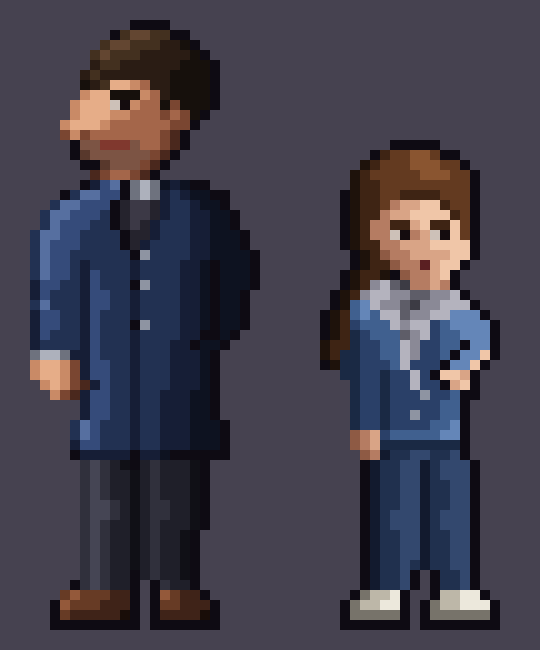
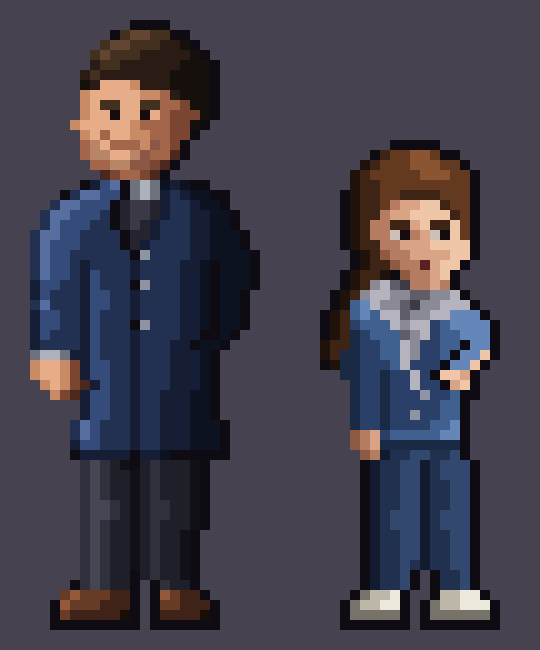
Musterfigur Marko: Gesicht neu (ruhige Hauttöne, feine Brauen, kleine Nase, weicher Bartschatten)
Claude-Session: https://claude.ai/code/session_018SiG6GXfYC6gzdWKXnarfp

Changed region(s): [[0.0889, 0.1231, 0.4148, 0.2769]]

diff --git a/design/tools/hd_figuren_beispiel.js b/design/tools/hd_figuren_beispiel.js
@@ -397,7 +397,7 @@ function blur(src, w, h, r, passes) { let a = Float32Array.from(src), b = new Fl
 function bil(a, w, h, fx, fy, k) { const x = clamp(fx, 0, w - 1.001), y = clamp(fy, 0, h - 1.001), x0 = Math.floor(x), y0 = Math.floor(y), u = x - x0, v = y - y0, i00 = (y0 * w + x0) * 3 + k, i10 = i00 + 3, i01 = i00 + w * 3, i11 = i01 + 3;
   return (a[i00] * (1 - u) + a[i10] * u) * (1 - v) + (a[i01] * (1 - u) + a[i11] * u) * v; }
 // ================================================================ Figuren von Hand (Legende: Zeichen → Farbe); Marko sieht nach links, Mala nach rechts
-const FPAL = {"K": "#0e0b13", "h": "#16100c", "H": "#2a1c14", "i": "#43301f", "j": "#634631", "q": "#4a281d", "s": "#7a4631", "S": "#a4664a", "t": "#c98a66", "T": "#e6ad88", "b": "#7c5444", "d": "#58382c", "e": "#140c0e", "w": "#cdc1b8", "m": "#80382e", "c": "#0d1220", "C": "#161e36", "D": "#223152", "E": "#354b7a", "F": "#566fa0", "v": "#25232d", "V": "#3c3946", "g": "#6e727e", "G": "#adb1bc", "p": "#101016", "P": "#1f1f29", "Q": "#30303c", "R": "#454554", "o": "#190d08", "O": "#3f2318", "u": "#673b25", "U": "#94593a", "y": "#8e94a2", "a": "#1e120b", "A": "#3e2414", "B": "#633a20", "I": "#8a5530", "f": "#8e5a44", "k": "#b57c62", "l": "#d9a486", "n": "#f0c6a8", "J": "#1a2944", "L": "#2a4068", "M": "#40608f", "N": "#6486b8", "x": "#3c3b44", "X": "#5e5d68", "Z": "#8a8996", "z": "#b4b3be", "r": "#121a2e", "W": "#20304e", "Y": "#33486e", "1": "#77736a", "2": "#bdb7a8", "3": "#ece8dc", "4": "#5a1f22"};
+const FPAL = {"K": "#0e0b13", "h": "#16100c", "H": "#2a1c14", "i": "#43301f", "j": "#634631", "q": "#4a281d", "s": "#7a4631", "S": "#a4664a", "t": "#c98a66", "T": "#e6ad88", "b": "#7c5444", "d": "#58382c", "e": "#140c0e", "w": "#cdc1b8", "m": "#80382e", "c": "#0d1220", "C": "#161e36", "D": "#223152", "E": "#354b7a", "F": "#566fa0", "v": "#25232d", "V": "#3c3946", "g": "#6e727e", "G": "#adb1bc", "p": "#101016", "P": "#1f1f29", "Q": "#30303c", "R": "#454554", "o": "#190d08", "O": "#3f2318", "u": "#673b25", "U": "#94593a", "y": "#8e94a2", "a": "#1e120b", "A": "#3e2414", "B": "#633a20", "I": "#8a5530", "f": "#8e5a44", "k": "#b57c62", "l": "#d9a486", "n": "#f0c6a8", "J": "#1a2944", "L": "#2a4068", "M": "#40608f", "N": "#6486b8", "x": "#3c3b44", "X": "#5e5d68", "Z": "#8a8996", "z": "#b4b3be", "r": "#121a2e", "W": "#20304e", "Y": "#33486e", "1": "#77736a", "2": "#bdb7a8", "3": "#ece8dc", "4": "#5a1f22", "5": "#b88566", "6": "#8a5844"};
 const SPR_MARKO = [
 "...........KKKK...........",
 ".........KKjjiiKK.........",
@@ -405,16 +405,16 @@ const SPR_MARKO = [
 ".......KjiiiHHHHHhK.......",
 ".......KiiHHHHHHhhhK......",
 "......KiHHHHHHHhhhhK......",
-"......KHiTTtSHHhhhhK......",
-"......KTThhhtSHhhhhK......",
-".....KTTTwetSShshhhK......",
-".....KTTTttSSSsSshK.......",
-"....KTTTtSSSSSSssK........",
-"....KtsSSSSSSSsqK.........",
-".....KbbmmmbSSsqK.........",
-".....KdbbbbbbsqK..........",
-"......KKdbbbsqK...........",
-".......KsSSsqK............",
+"......KHTTTtHHHhhhhK......",
+"......KTTTTTttSHhhhK......",
+"......KTiiTTiiSSshhK......",
+"......KTTeTTeTSssshK......",
+".....KTTTTTtSSSsshK.......",
+"......KTSTTttSSssK........",
+"......K5TSSSt6SsK.........",
+"......K55TT56SSqK.........",
+".......KK5566sqK..........",
+"........KsSSsqK...........",
 "......KKEFKgGgKCcKK.......",
 "....KKFFEEKgGgKDCccKK.....",
 "...KFFEEEKvVVvKDDCccK.....",
@@ -513,7 +513,7 @@ const SPR_MALA = [
 const hexc = h => [parseInt(h.slice(1, 3), 16) / 255, parseInt(h.slice(3, 5), 16) / 255, parseInt(h.slice(5, 7), 16) / 255];
 // Kontur nur, wo nötig: außen die dunkelste Farbe der Fläche daneben statt Schwarz, unten und zur Schattenseite Schwarz
 function selout(rows) { const h = rows.length, w = rows[0].length, g = (x, y) => (x < 0 || y < 0 || x >= w || y >= h) ? '.' : rows[y][x];
-  const dark = { E: 'C', F: 'D', D: 'C', C: 'c', G: 'g', T: 't', t: 's', S: 's', s: 'q', n: 'l', l: 'k', k: 'f', L: 'J', M: 'L', N: 'M', z: 'Z', Z: 'X', X: 'x', H: 'h', i: 'H', j: 'i', A: 'a', B: 'A', I: 'B', Q: 'P', P: 'p', R: 'Q', W: 'r', Y: 'W', '2': '1', '3': '2', O: 'o', u: 'O', U: 'u', V: 'v', J: 'J' };
+  const dark = { E: 'C', F: 'D', D: 'C', C: 'c', G: 'g', T: 't', t: 's', S: 's', s: 'q', n: 'l', l: 'k', k: 'f', L: 'J', M: 'L', N: 'M', z: 'Z', Z: 'X', X: 'x', H: 'h', i: 'H', j: 'i', A: 'a', B: 'A', I: 'B', Q: 'P', P: 'p', R: 'Q', W: 'r', Y: 'W', '2': '1', '3': '2', O: 'o', u: 'O', U: 'u', V: 'v', J: 'J', '5': 'S', '6': 's' };
   return rows.map((r, y) => r.split('').map((ch, x) => { if (ch !== 'K') return ch; const nb = [g(x + 1, y), g(x, y - 1), g(x - 1, y)].filter(c => c !== '.' && c !== 'K');
     const below = g(x, y + 1) === '.' || g(x, y + 1) === 'K'; if (!nb.length || (below && y > h - 6)) return 'K'; const n = nb[0]; const d = dark[n]; return (x < w * 0.55 && d && g(x + 1, y) !== '.' ) ? d : 'K'; }).join('')); }
 const MK = selout(SPR_MARKO), ML = selout(SPR_MALA);
